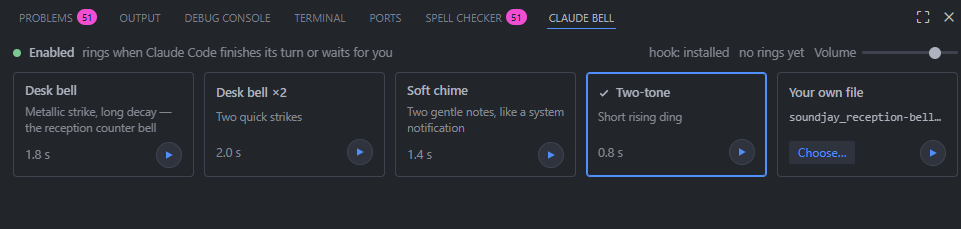
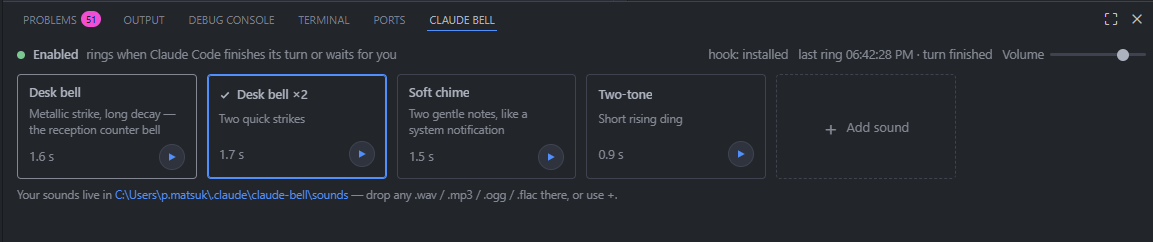
extension 0.9.6: panel screenshot updated (sound library with + card)

diff --git a/vscode-extension/extension.js b/vscode-extension/extension.js
@@ -1,7 +1,7 @@
 /**
  * @summary Claude Bell — a self-contained chime for Claude Code inside VS Code. In a LOCAL window every ring goes through the OS player (player.js: WPF MediaPlayer via PowerShell, afplay, paplay — with volume, no user gesture needed) playing the bundled WAVs rendered from the panel's own formulas (media/sounds, scripts/render-chimes.mjs) or a sound from the person's LIBRARY — the folder ~/.claude/claude-bell/sounds (claudeBell.soundsFolder overrides): every audio file in it is one card in the panel; the «+» card opens a file picker and the panel decodes the file (any format the browser plays), trims silence, normalizes the peak and hands back a mono 16-bit WAV the extension writes into the folder; a file dropped into the folder by hand shows up too, and a non-WAV one is converted in place into <name>.wav (the original is removed) so paplay and SoundPlayer can play it; the × on a library card deletes the file after a confirm. The folder is watched (fs.watch + a 2 s poll) so the cards follow it. In a REMOTE window (SSH, WSL) the server has no speakers, so the ring is played by the panel's webview on the person's machine, which the browser keeps muted until one click inside the panel — the header shows Enable sound and a toast points there once. The extension host runs where Claude Code runs (extensionKind workspace: local, SSH remote or WSL); at activation it installs its OWN hook into Claude Code's ~/.claude/settings.json there (hook-install.js: plain shell one-liners on Stop and on Notification idle_prompt|permission_prompt that append one JSON line to the signal file — no plugin, no node, nothing pointing into the extension folder; claudeBell.installHook=false opts out, `vscode:uninstall` removes exactly those entries) and watches that signal file (~/.claude/.claude-bell-signal) two ways at once — a directory fs.watch and a 700 ms stat poll — comparing the size it saw last and reading the newest line to name the reason. While alive the extension refreshes a marker file (~/.claude/.claude-bell-extension, every 20 s) that the optional `bell` plugin reads to skip its own OS player; rings inside 2500 ms of each other collapse into one. The view is revealed once at startup so its webview exists, and retainContextWhenHidden keeps it alive after the Panel switches back to the terminal. Every step is one line in the «Claude Bell» output channel. The legacy claudeBell.soundFile setting is imported into the library once and cleared. Commands: claudeBell.test, claudeBell.toggle, claudeBell.addSound, claudeBell.installHook, claudeBell.removeHook; a status-bar bell mirrors the state and blinks on every ring.
  * @route claude-bell extension | "no sound over SSH" · "rings twice" (marker file missing or stale) · "no sound at all" → View → Output → Claude Bell · "hook not installed" → Claude Bell: Install hook into Claude Code · "where are my sounds" → ~/.claude/claude-bell/sounds
- * @example code --install-extension claude-bell-0.9.5.vsix
+ * @example code --install-extension claude-bell-0.9.6.vsix
  */
 const vscode = require("vscode");
 const fs = require("node:fs");

diff --git a/vscode-extension/README.md b/vscode-extension/README.md
@@ -6,7 +6,7 @@ Chime in your VS Code window when Claude Code finishes its turn or waits for you
 
 ![Claude Bell panel in the VS Code bottom panel, next to Terminal](https://raw.githubusercontent.com/PetrushaPetrovich/claude-bell/main/vscode-extension/media/panel.png)
 
-The **Claude Bell** tab lives in the bottom Panel next to Terminal: pick a sound card, preview it with ▶, add your own with **+**, set the volume. / Вкладка **Claude Bell** живёт в нижней панели рядом с Terminal: выберите карточку звука, послушайте по ▶, добавьте свои через **+**, задайте громкость.
+The **Claude Bell** tab lives in the bottom Panel next to Terminal: pick a sound card, preview it with ▶, add your own with **+** (they appear as cards you can delete with ×), set the volume. / Вкладка **Claude Bell** живёт в нижней панели рядом с Terminal: выберите карточку звука, послушайте по ▶, добавьте свои через **+** (они появятся плитками, которые можно удалить крестиком), задайте громкость.
 
 ## Why Claude Bell / Почему это расширение
 
